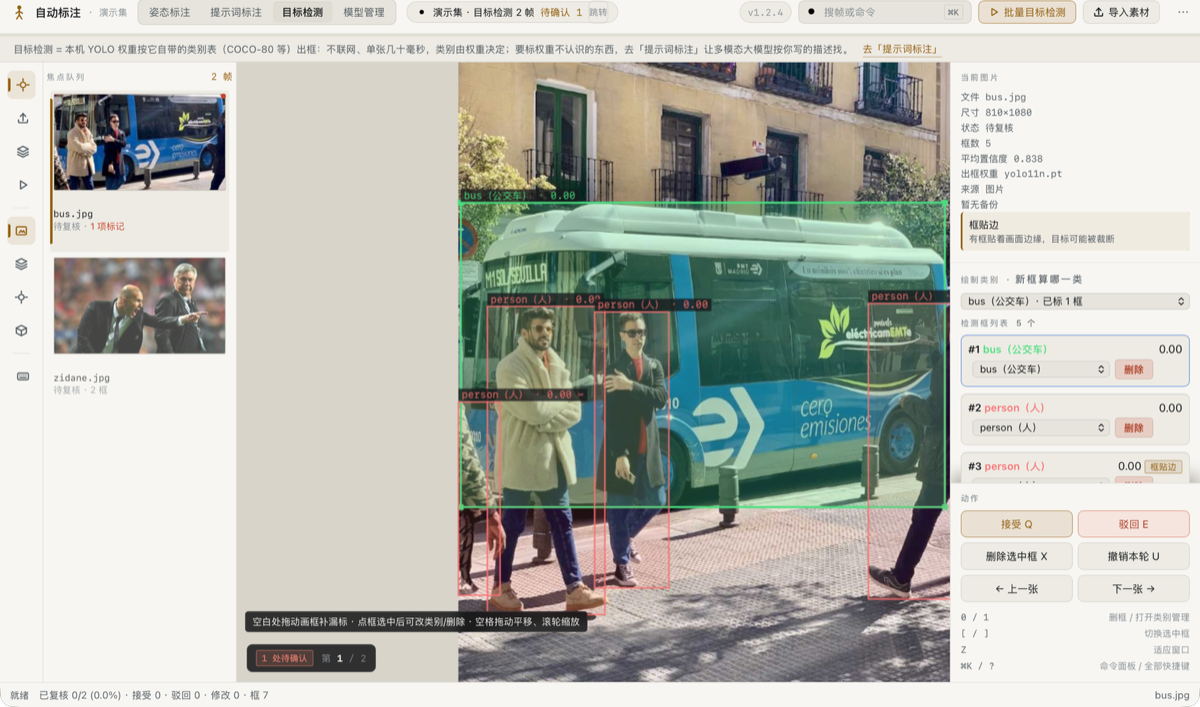
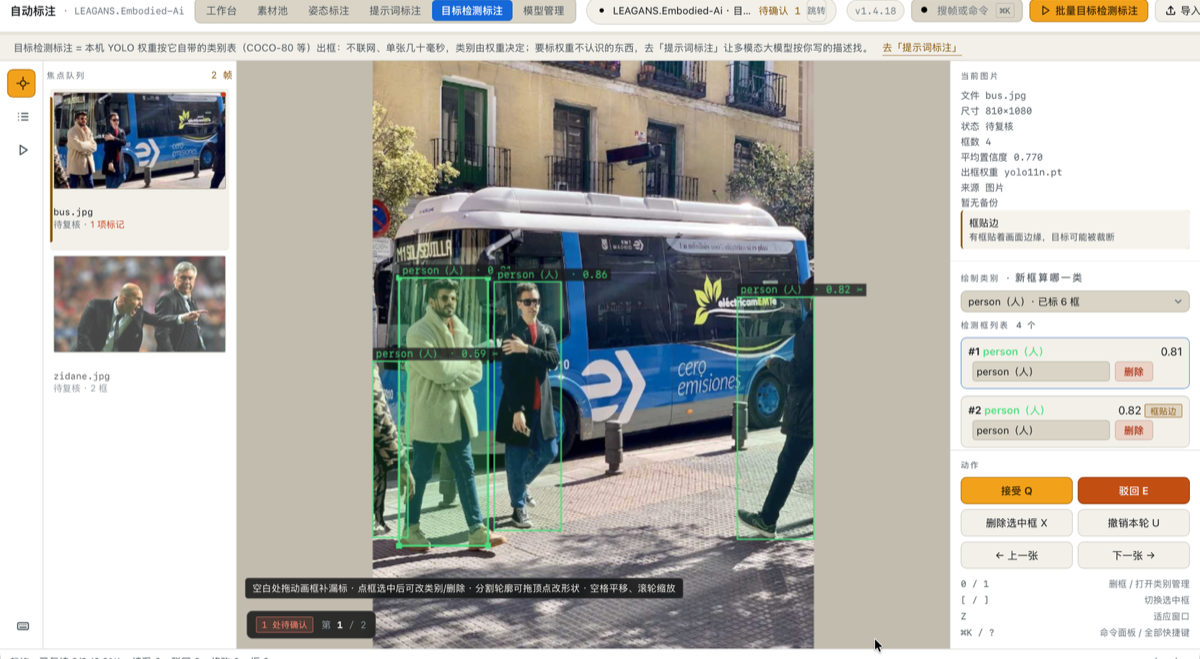
docs: 六个页面按新配色重新截图，README 图全部替换并补上素材池 / 提示词标注页
- workbench / review-pose / detect / models / settings 五张重拍
- 新增 pool.png（素材池）与 objects.png（提示词标注）
- README 界面章节重排：工作台 → 提示词+检测（并排）→ 素材池+模型管理 → 姿态 → 系统设置
- README 页面表补 /pool 一行，概览数字按新口径（素材池代替图片文件）
- 截图均为实机数据：2 张素材、姿态 2 帧、检测 6 框、提示词 7 框（VLM 真跑）
- 裁掉模型页与设置面板里的本机绝对路径

diff --git a/README.md b/README.md
@@ -174,7 +174,8 @@ class_id cx cy w h  x1 y1 v1  x2 y2 v2 ... x17 y17 v17
 
 | 地址 | 模块 | 内容 |
 | --- | --- | --- |
-| `/` | 工作台 | **“下一步”行动流**（按「先能跑起来、再挑毛病」排序，最多三条，每条带直达按钮：先去复核 / 先去标注 / 去下载权重 / 去导出）、概览数字（图片文件 / 姿态库 / 提示词库 / 目标检测库 / 等你复核 / 导入批次）、三个标注库入口（各带「导入图片 / 视频」）、三套坐标下载 + 三个库各自的 YOLO 训练集导出（各带「上次导出」路径与复制按钮）、三库批次统一管理与逐张删除、启动对账提示条。「重新读取磁盘」在 `⋯` 菜单里，快捷键 `R` |
+| `/` | 工作台 | **“下一步”行动流**（按「先能跑起来、再挑毛病」排序，最多三条，每条带直达按钮：先去复核 / 先去标注 / 去下载权重 / 去导出）、概览数字（素材池 / 姿态库 / 提示词库 / 目标检测库 / 等你复核 / 导入批次）、三个标注库入口（各带「导入图片 / 视频」）、三套坐标下载 + 三个库各自的 YOLO 训练集导出（各带「上次导出」路径与复制按钮）、三库批次统一管理与逐张删除、启动对账提示条。「重新读取磁盘」在 `⋯` 菜单里，快捷键 `R` |
+| `/pool` | 素材池 | **素材归池、标注归库**：上传可以只进池不入库，分类跟着素材走、三个模块看到的永远一致；导入那一刻盖**来处章**，`B` 切到批次记录能看到导入的和各模块标注过的每一批，删错了「捞回上次删除」把标签原文、索引条目、批次记录一起装回来 |
 | `/pose` | 姿态标注 | 人体骨骼的自动标注与人工复核（`/review` 为改名前的老地址）；库里已有的图按 `G` 直接**批量姿态标注**，不必重传素材，CSV / JSONL / YOLO 训练集三个导出在顶栏 `⋯` 菜单里，也能按 `⌘K` 搜「导出」 |
 | `/objects` | 提示词标注 | 字段管理、批量提示词标注、删错框与补画漏框、检测框坐标与训练集导出 |
 | `/detect` | 目标检测标注 | 选本机 YOLO 权重 → 勾它自带的类别（开放词表权重改成填英文词，旁边有**先试词**问清认不认）→ 批量出框 → 删错框补漏框、**拖轮廓点改形状** → 坐标与训练集导出。本库独立上传口，姿态权重会被挡在下拉框外并说明原因（快捷键 `O` 与提示词标注互跳） |
@@ -183,28 +184,37 @@ class_id cx cy w h  x1 y1 v1  x2 y2 v2 ... x17 y17 v17
 骨骼写姿态库（`labels/` + `.autolabel/index.json`），提示词出的框写提示词库（`prompt_labels/` + `.autolabel/objects/index.json`），本机权重出的框写目标检测库（`detect_labels/` + `.autolabel/detect/index.json`），三套标签、三套批次、三套导出互不覆盖，素材池 `images/` 共用。「提示词标注」与「目标检测标注」共用同一份前端脚本（`objects.js`），靠页面里的 `data-lib` 选配置行，接口靠 `lib` 参数分流——同一件事只有一个入口。
 
 <p align="center">
-  <img src="docs/screenshots/workbench.png" width="820" alt="工作台：下一步行动、概览数字、三个标注库入口、三库训练集导出">
+  <img src="docs/screenshots/workbench.png" width="820" alt="工作台：下一步行动、六格概览、三个标注库入口与三套导出">
 </p>
 
 <p align="center">
-  <sub>工作台（<code>/</code>）—— 顶部「下一步」按「先能跑起来、再挑毛病」排序，中间六格概览与三个标注库入口，底部三套导出</sub>
+  <sub>工作台（<code>/</code>）—— 顶部「下一步」按「先能跑起来、再挑毛病」排序，中间六格概览（素材池 / 三个标注库 / 等你复核）与三个标注库入口，底部三套训练集与坐标导出</sub>
 </p>
 
 <p align="center">
-  <img src="docs/screenshots/detect.png" width="820" alt="目标检测标注页：本机 YOLO 权重按自带类别表出框，右侧是可改类别的框列表与动作按钮">
+  <img src="docs/screenshots/objects.png" width="404" alt="提示词标注页：一句中文描述让多模态大模型出框，框上带置信度，右侧是字段与框列表">
+  <img src="docs/screenshots/detect.png" width="404" alt="目标检测标注页：本机 YOLO 权重按自带类别表出框，右侧是类别表与框列表">
 </p>
 
 <p align="center">
-  <sub>目标检测标注（<code>/detect</code>）—— 本机权重出框（bus / person），右侧框列表可改类别、删框，画布空白处拖动画漏框</sub>
+  <sub>左：提示词标注（<code>/objects</code>）—— 多模态大模型按你写的字段找东西，框上带真实置信度<br>右：目标检测标注（<code>/detect</code>）—— 本机权重按自带类别表出框，不联网、单张几十毫秒</sub>
 </p>
 
 <p align="center">
-  <img src="docs/screenshots/models.png" width="404" alt="模型管理页：搜索框里输入一句「能标轮廓的」，结果只剩实例分割权重，每行带中文说明与就绪状态">
-  <img src="docs/screenshots/settings.png" width="404" alt="系统设置面板：左半界面外观（昼夜 + 四档字号），右半推理算力（自动 / CUDA / MPS / CPU + 半精度）">
+  <img src="docs/screenshots/pool.png" width="404" alt="素材池页：素材归池、标注归库，按分类与批次管理，删错了能捞回">
+  <img src="docs/screenshots/models.png" width="404" alt="模型管理页：模型目录、任务筛选、搜索框、本机模型列表与各模块默认模型">
 </p>
 
 <p align="center">
-  <sub>左：模型管理（<code>/models</code>，搜「能标轮廓的」直接出分割权重）· 右：<code>⌥S</code> 系统设置 —— 外观存这台浏览器，推理算力存这台机器</sub>
+  <sub>左：素材池（<code>/pool</code>）—— 三个库共用的素材只落盘一份，分类与来处章跟着素材走<br>右：模型管理（<code>/models</code>）—— 中文说明、体积、参数量、自带类别表，下载与默认模型都在这一处</sub>
+</p>
+
+<p align="center">
+  <img src="docs/screenshots/settings.png" width="720" alt="系统设置面板：左半界面外观（昼夜 + 四档字号），右半推理参数（设备 / 半精度 / 输入分辨率 / 默认置信度）">
+</p>
+
+<p align="center">
+  <sub><code>⌥S</code> 系统设置 —— 外观存这台浏览器，推理参数存这台机器；不可用的设备会写明原因并当场降级</sub>
 </p>
 
 ### 姿态标注页
